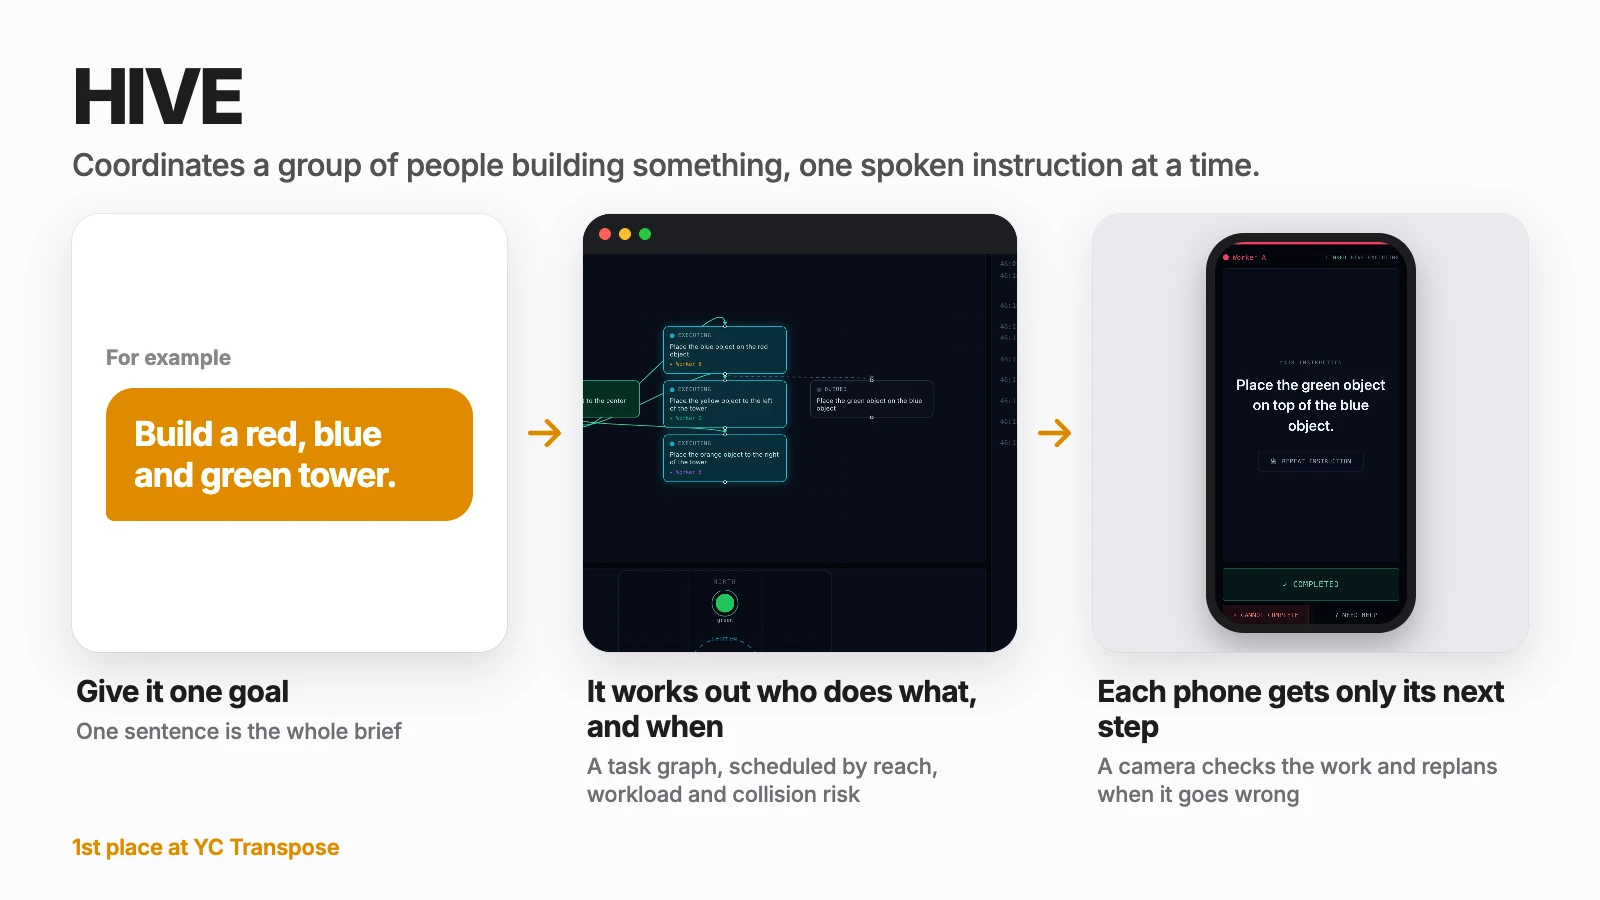
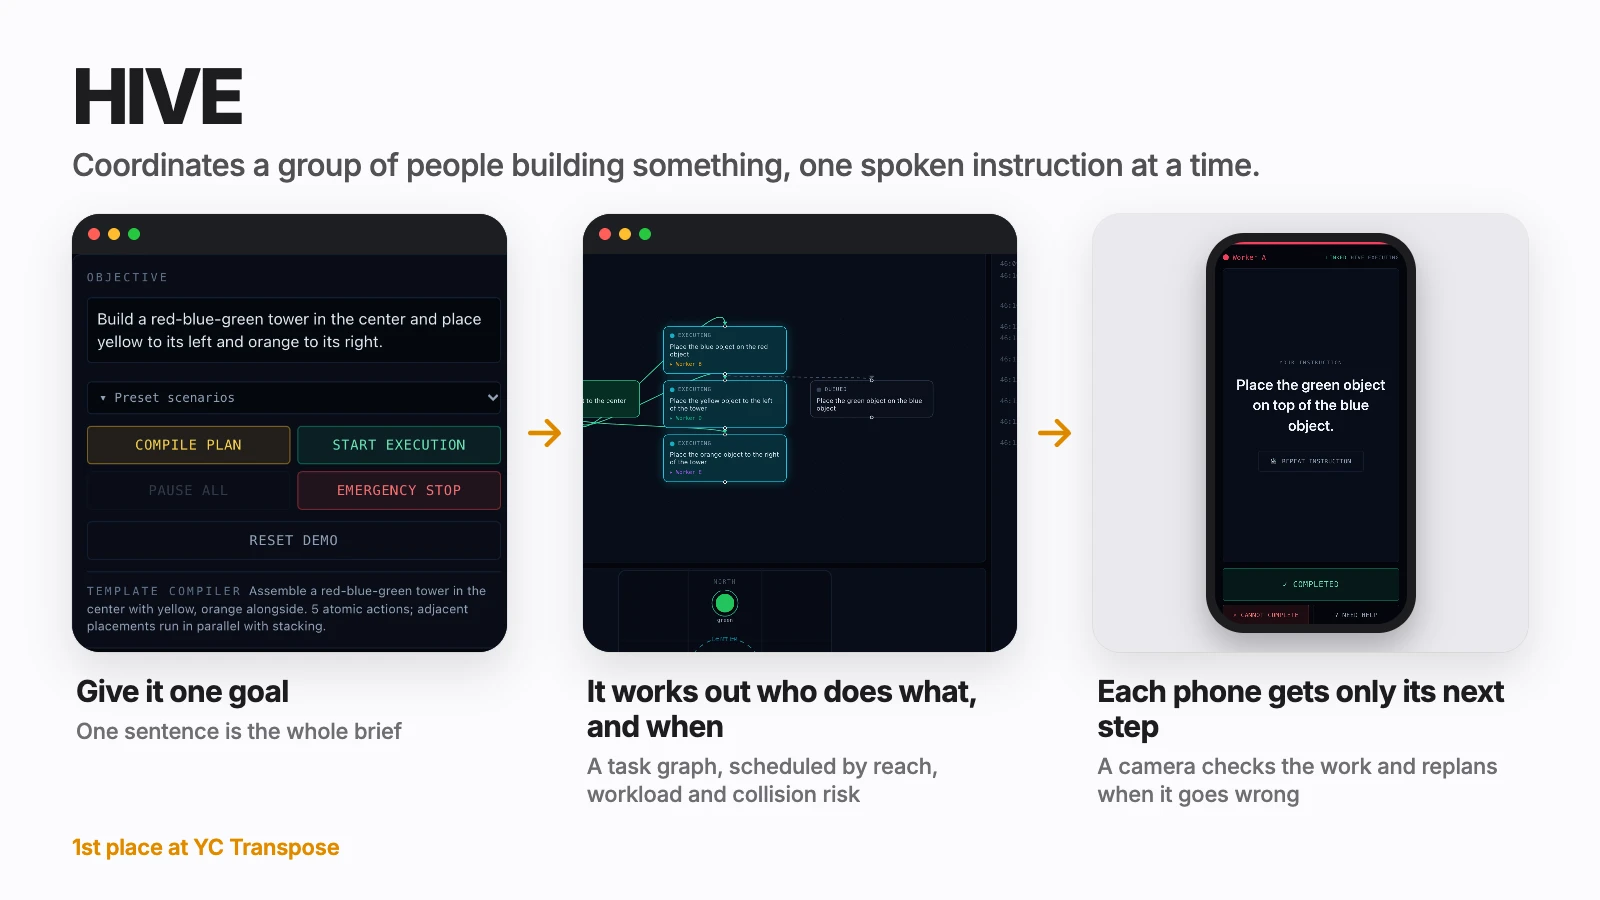
HIVE cover: the first panel is the real host screen
The first panel was a drawn speech bubble. It is now a capture of the
host's objective box with the goal typed in, taken during the same run
as the other two panels.

Changed region(s): [[0.0312, 0.2178, 0.3438, 0.7467]]

diff --git a/sources/data/explainers.js b/sources/data/explainers.js
@@ -75,7 +75,7 @@ export const explainers = {
         line: 'Coordinates a group of people building something, one spoken instruction at a time.',
         proof: '1st place at YC Transpose',
         panels: [
-            { draw: 'say', who: 'For example', text: 'Build a red, blue and green tower.', caption: 'Give it one goal', sub: 'One sentence is the whole brief' },
+            { draw: 'window', img: `${ART}/hive-objective.png`, position: 'left top', caption: 'Give it one goal', sub: 'One sentence is the whole brief' },
             { draw: 'window', img: `${ART}/hive-host.png`, position: '62% 30%', zoom: 1.5, caption: 'It works out who does what, and when', sub: 'A task graph, scheduled by reach, workload and collision risk' },
             { draw: 'phone', img: `${ART}/hive-worker.png`, caption: 'Each phone gets only its next step', sub: 'A camera checks the work and replans when it goes wrong' },
         ],
